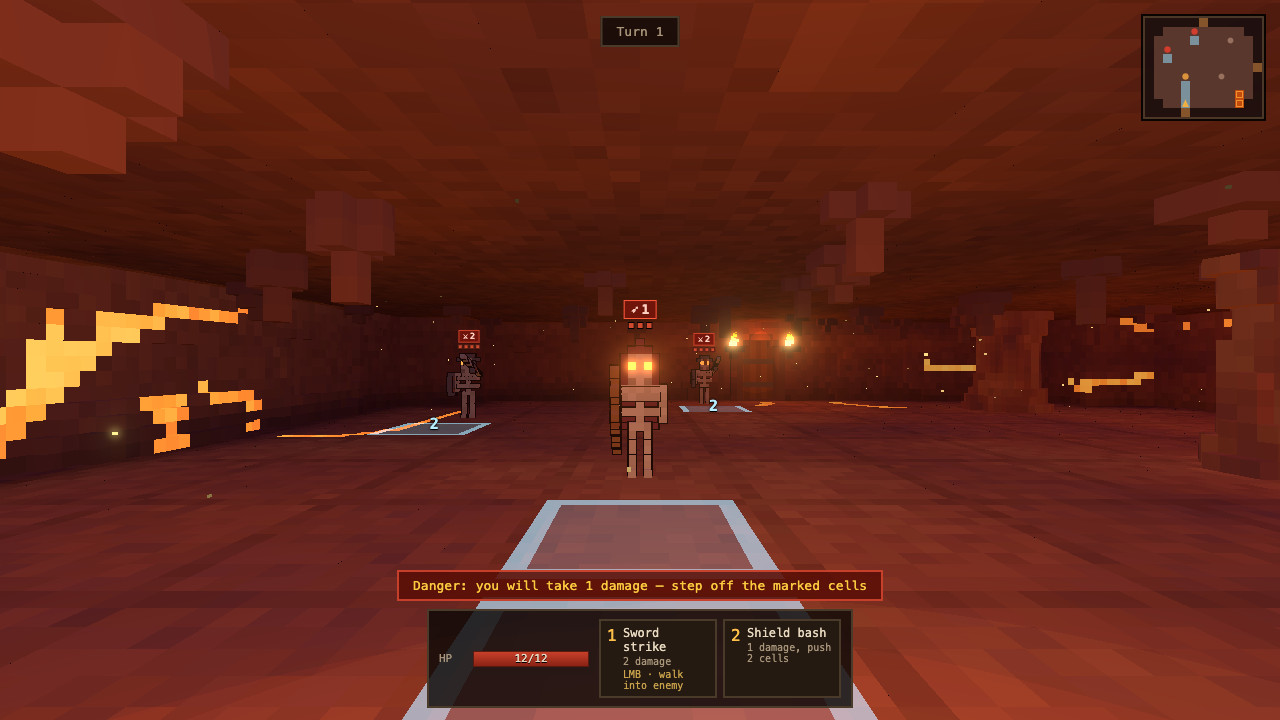
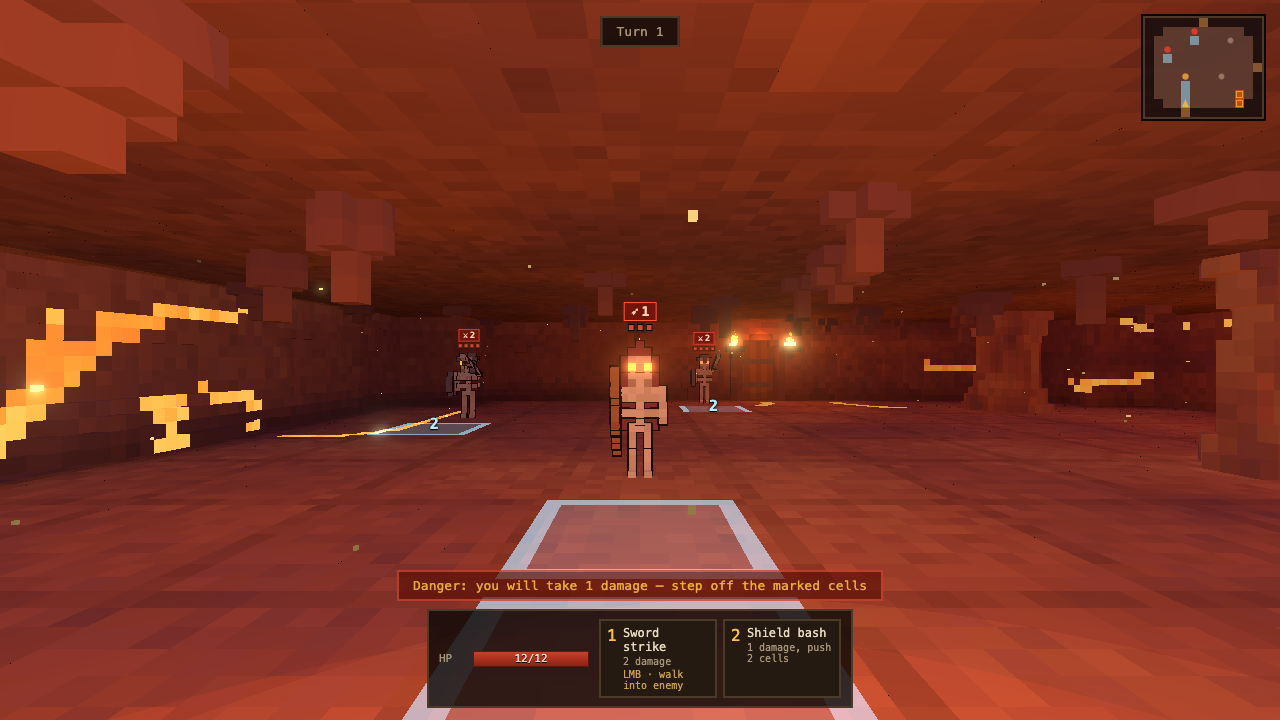
render: brighter fill and torch to match the reference

diff --git a/src/render/renderer.ts b/src/render/renderer.ts
@@ -21,9 +21,9 @@ export type Quality = 'high' | 'low';
 const FOG_COLOR = 0x1a0705;
 const BACKGROUND = 0x140504;
 const FOG_DENSITY = 0.055;
-const HEMI_INTENSITY = 2.2;
-const TORCH_INTENSITY = 2.2;
-const BRAZIER_INTENSITY = 6;
+const HEMI_INTENSITY = 3;
+const TORCH_INTENSITY = 3.6;
+const BRAZIER_INTENSITY = 8;
 const LAVA_LIGHT_INTENSITY = 3;
 const BLOOM = { strength: 0.45, radius: 0.35, threshold: 0.8 };
 const MAX_PIXEL_RATIO = 2;
